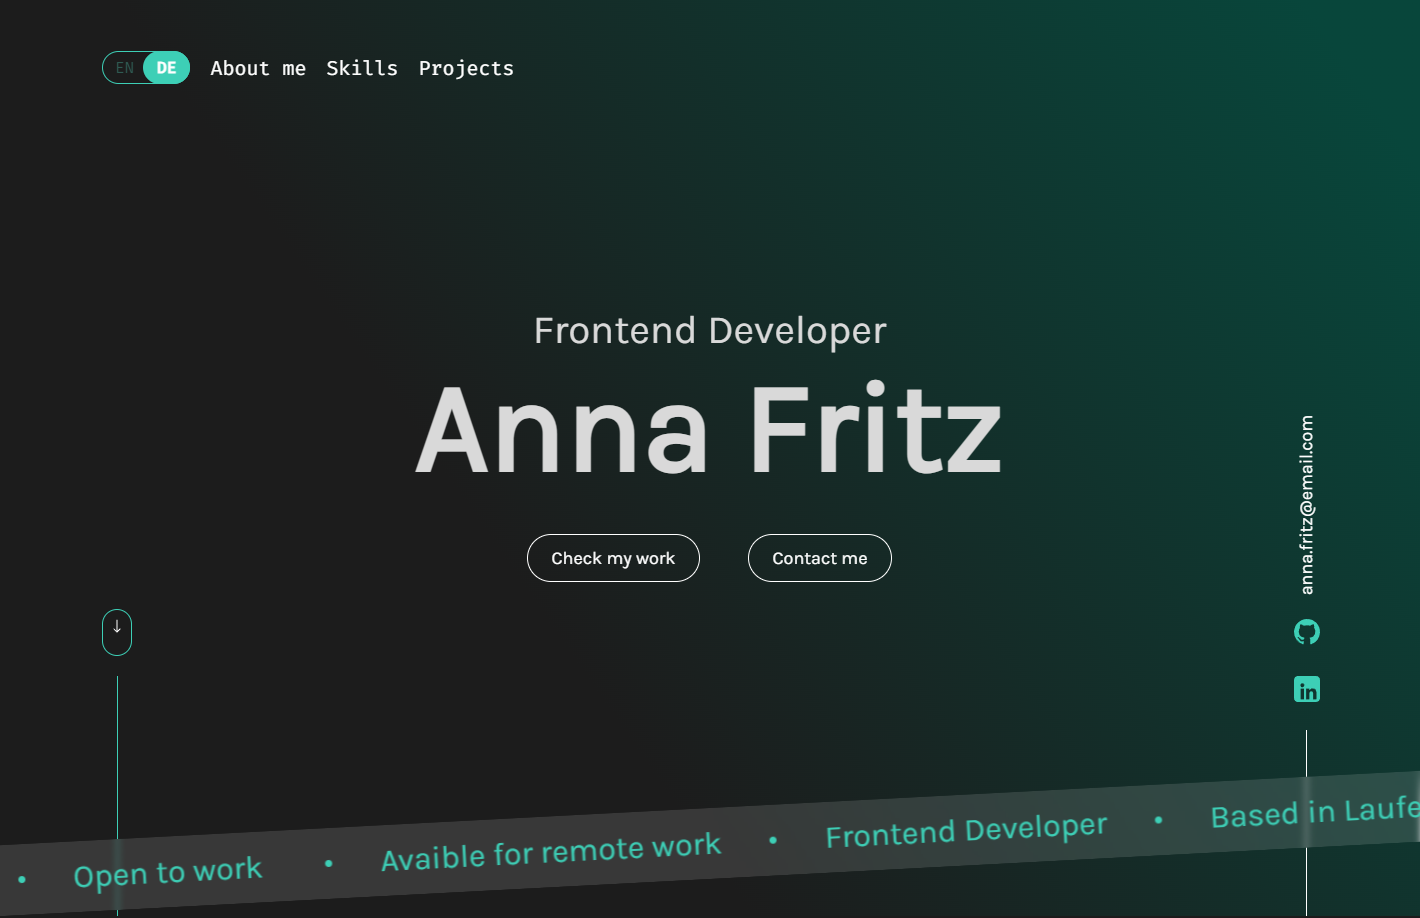
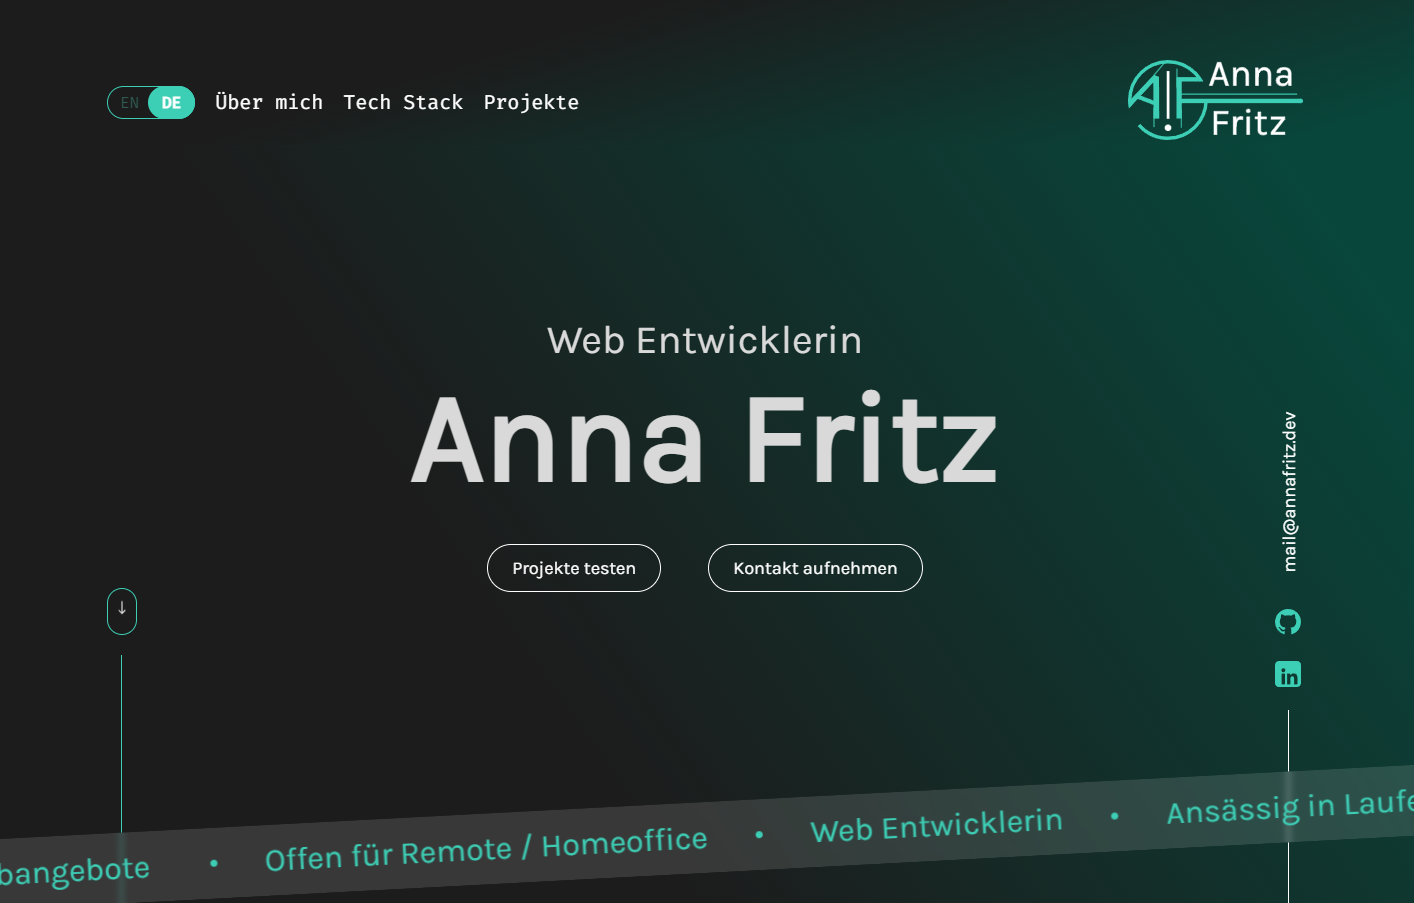
minor changes in styling & code cleaning

diff --git a/src/app/main-content/contact/contact.component.ts b/src/app/main-content/contact/contact.component.ts
@@ -19,7 +19,6 @@ export class ContactComponent {
 
   isAccepted = true;
   isEmpty = false;
-  sentSuccessfully = false;
 
   contactData: {
     name: string,
@@ -32,7 +31,7 @@ export class ContactComponent {
   }
 
   naming = "";
-
+  sentSuccessfully = false;
   mailTest = true;
 
   post = {
@@ -67,7 +66,6 @@ export class ContactComponent {
         });
 
     } else if (ngForm.submitted && ngForm.form.valid && this.mailTest && checkbox.checked) {
-      console.log("Hey!", this.naming);
       this.showSuccessPopup(popup);
       ngForm.resetForm();
 
@@ -96,28 +94,24 @@ export class ContactComponent {
       setTimeout(() => {
         popup.style.left = "504px";
       }, 200);
-      setTimeout(() => {
-        popup.style.left = "1880px";
-      }, 3000);
-      return;  
-
+      this.hidePopup(popup);
     } else if (window.screen.width < 942) {
       setTimeout(() => {
         popup.style.left = "30vw";
       }, 200);
-      setTimeout(() => {
-        popup.style.left = "110%";
-      }, 3000);      
-      return;
-
+      this.hidePopup(popup);
     } else {
       setTimeout(() => {
         popup.style.left = "35vw";
       }, 200);
-      setTimeout(() => {
-        popup.style.left = "110%";
-      }, 3000);
-      return;
+      this.hidePopup(popup);
     }
+  }
+
+  hidePopup(popup: HTMLDivElement) {
+    setTimeout(() => {
+      popup.style.left = "110%";
+    }, 5000);
+    return;
   }
 }

diff --git a/src/app/shared/footer/footer.component.html b/src/app/shared/footer/footer.component.html
@@ -1,11 +1,11 @@
 <footer>
     <div class="left-section">
         @if (screenwidth <= 430) {
-            <a #heroLink (click)="project.scrollToSection('hero', heroLink)">
+            <a href="https://annafritz.de">
                 <img src="assets/icons/logoAF.svg" alt="Logo Anna Fritz">
             </a>
         } @else {
-            <a #heroLink (click)="project.scrollToSection('hero', heroLink)">
+            <a href="https://annafritz.de">
                 <img src="assets/icons/logoAFbig.svg" alt="Logo Anna Fritz">
             </a>
         }   
@@ -16,11 +16,11 @@
         <span>© Anna Fritz 2024</span>
     </div>
     <div class="right-section">
-        <a href="https://github.com/Anna-Fritz">
+        <a href="https://github.com/Anna-Fritz" target="_blank" rel="noopener noreferrer">
             <span>Github</span>
             <div class="hover-dot"></div>
         </a>
-        <a href="https://www.linkedin.com/in/anna-fritz-718293296/">
+        <a href="https://www.linkedin.com/in/anna-fritz-718293296/" target="_blank" rel="noopener noreferrer">
             <span>LinkedIn</span>
             <div class="hover-dot"></div>
         </a>

diff --git a/src/app/shared/header/header.component.scss b/src/app/shared/header/header.component.scss
@@ -1,22 +1,17 @@
 @import './../../../styles.scss';
 
 header {
-    // position: absolute;
-    // @include dFlex($jc: space-between);
-    // padding: 80px 8%;
-    // width: 100%;
-    // box-sizing: border-box;
     background: linear-gradient(85.22deg, #1C1C1C 4.26%, #08463B 93.28%);
     .desktop-header {
         @include dFlex($jc: space-between);
         padding: 7vh 8% 0 8%;
         width: 100%;
         box-sizing: border-box;
-        background: linear-gradient(163.22deg, #1C1C1C 36.26%, #08463B 93.28%);
+        background: linear-gradient(164.22deg, #1C1C1C 36.26%, #08463B 93.28%);
         @media(min-width: 1440px) {
             width: 1440px;
             margin: 0 auto;
-            padding: 85px 115px 0 115px;
+            padding: 64px 115px 0 115px;
             background: none;
         }
             >nav{

diff --git a/src/app/main-content/hero/hero.component.scss b/src/app/main-content/hero/hero.component.scss
@@ -18,15 +18,6 @@ section {
     width: 100%;
     @include dFlex();
     overflow: hidden;
-    @media(min-width: 1440px) {
-        height: 765px;
-    }
-    @media(max-width: 920px) {
-        height: 93.2vh;
-    }
-    @media(max-width: 394px) {
-
-    }
     .headline {
         @include dFlex();
         flex-direction: column;
@@ -180,11 +171,17 @@ section {
 
 @media(min-width: 1440px) {
     section {
-        height: 945px;
+        height: 765px;
         width: 1440px;
         margin: 0 auto;
     }
 }
+@media(max-width: 920px) {
+    .section {
+        height: 93.2vh;
+    }
+}
+
 @media(max-width: 900px) {
     .mail {
         display: none;

diff --git a/src/app/shared/header/header.component.html b/src/app/shared/header/header.component.html
@@ -16,12 +16,12 @@
                 <div class="hover-dot"></div>
             </a>
         </nav>
-        <a #heroLink (click)="project.scrollToSection('hero', heroLink)">
+        <a href="https://annafritz.de">
             <img src="assets/icons/logoAFbig.svg" alt="Anna Fritz Logo">
         </a>
     </div>
     <div class="mobile-header" [ngClass]="{'black': project.isBlack}" [ngClass]="{'imprint': project.atImprint}">
-        <a href="#contact">
+        <a href="https://annafritz.de">
             <img src="assets/icons/logoAF.svg" alt="logo initials">
         </a>
         <div class="menu-cont">

diff --git a/src/app/main-content/projects/single-project/single-project.component.html b/src/app/main-content/projects/single-project/single-project.component.html
@@ -44,14 +44,14 @@
         <a
           class="btn"
           href="{{ projectdata.project[projectdata.index].githubSrc }}"
-        >
+          target="_blank" rel="noopener noreferrer">
           <div>Github</div>
           <img src="assets/icons/arrow-right-up-green.svg" />
         </a>
         <a
           class="btn"
           href="{{ projectdata.project[projectdata.index].liveTestSrc }}"
-        >
+          target="_blank" rel="noopener noreferrer">
           <div>Live Test</div>
           <img src="assets/icons/arrow-right-up-green.svg" />
         </a>

diff --git a/src/app/main-content/about-me/about-me.component.ts b/src/app/main-content/about-me/about-me.component.ts
@@ -21,8 +21,6 @@ export class AboutMeComponent {
   }
 
   setNavbarBlack() {
-    this.projectdata.isBlack = true;
-    console.log("Tadda");
-    
+    this.projectdata.isBlack = true;    
   }
 }
